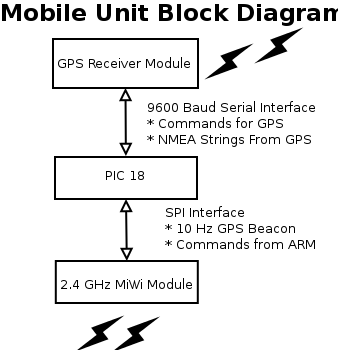
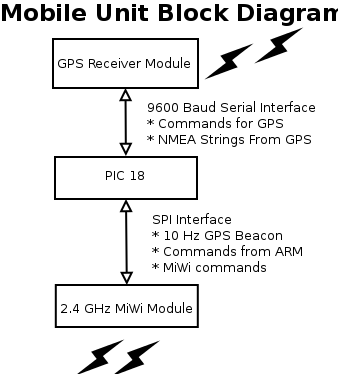
Added receiver diagram, added line to Remote module diagram.

diff --git a/block_diagram/main.tex b/block_diagram/main.tex
@@ -5,7 +5,8 @@
 \begin{document}
 \section*{System Overview}
 \includegraphics[width=0.8\textwidth]{blockdiagram_overview}
-\section*{Mobile Unit}
-\includegraphics[width=0.8\textwidth]{mobileUnit}
+\section*{Components}
+\includegraphics[width=0.8\textwidth]{mobileUnit} \newline
+\includegraphics[width=0.8\textwidth]{receiver}
 
 \end{document}
